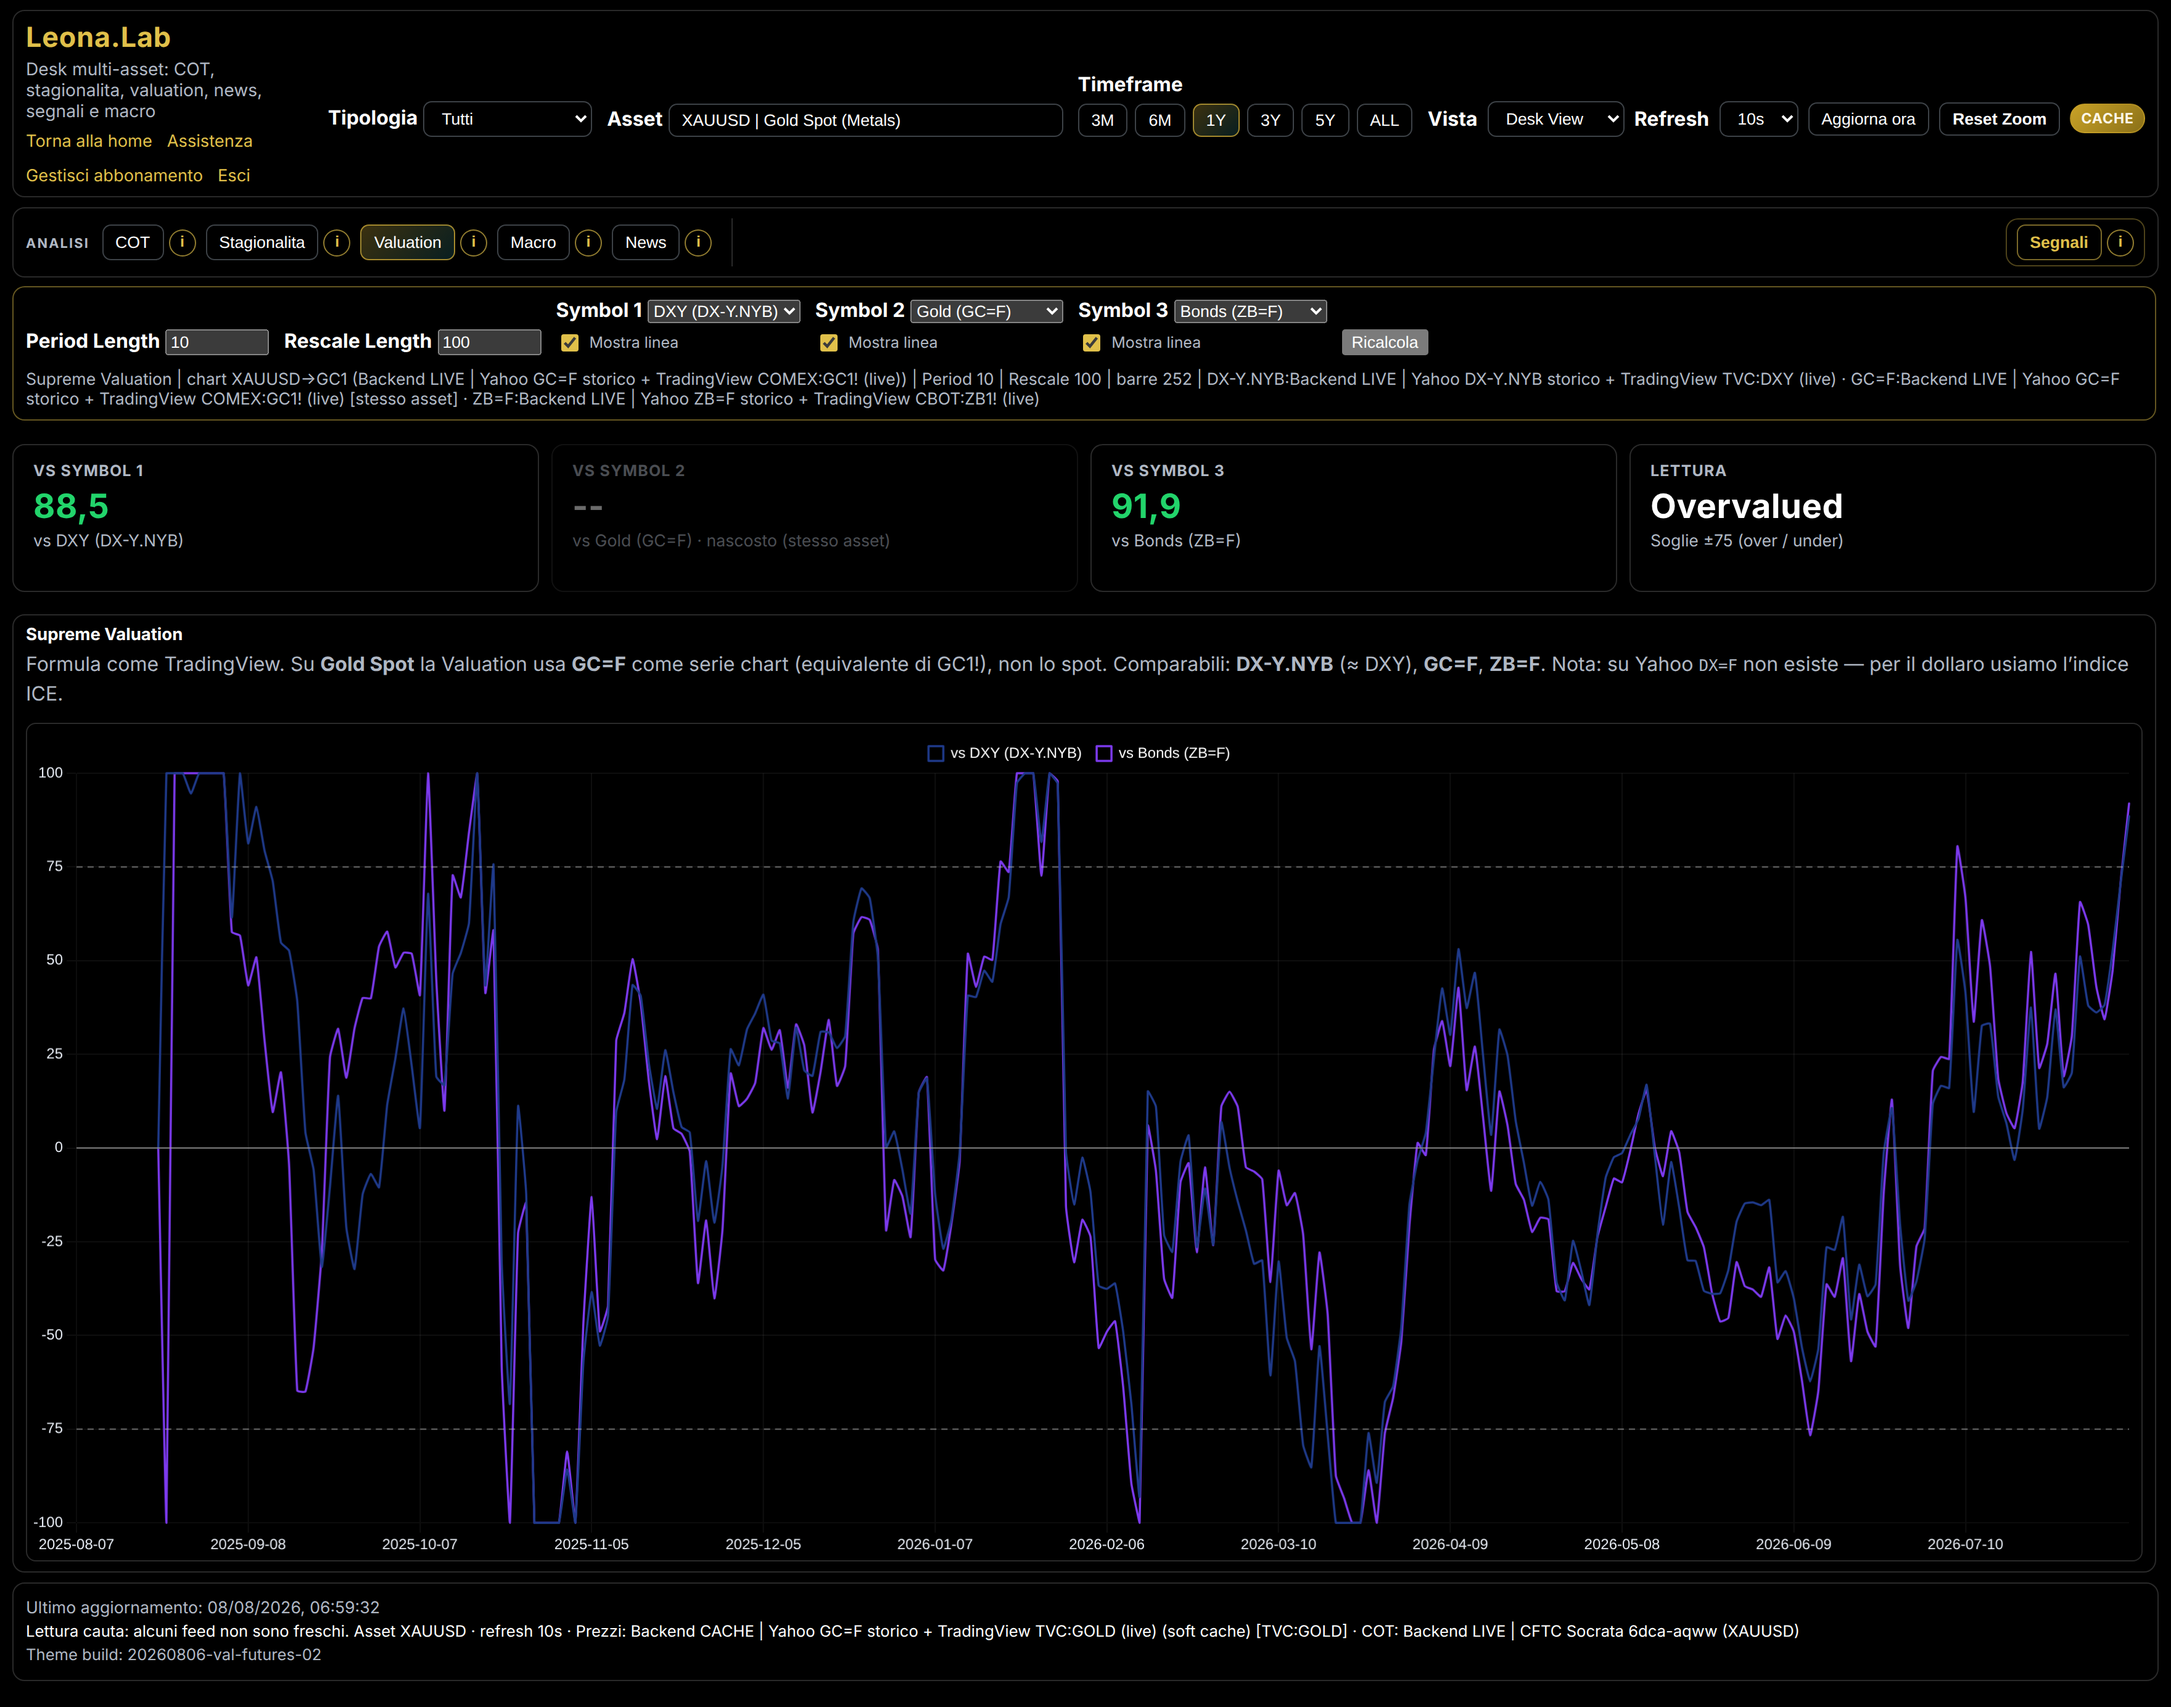
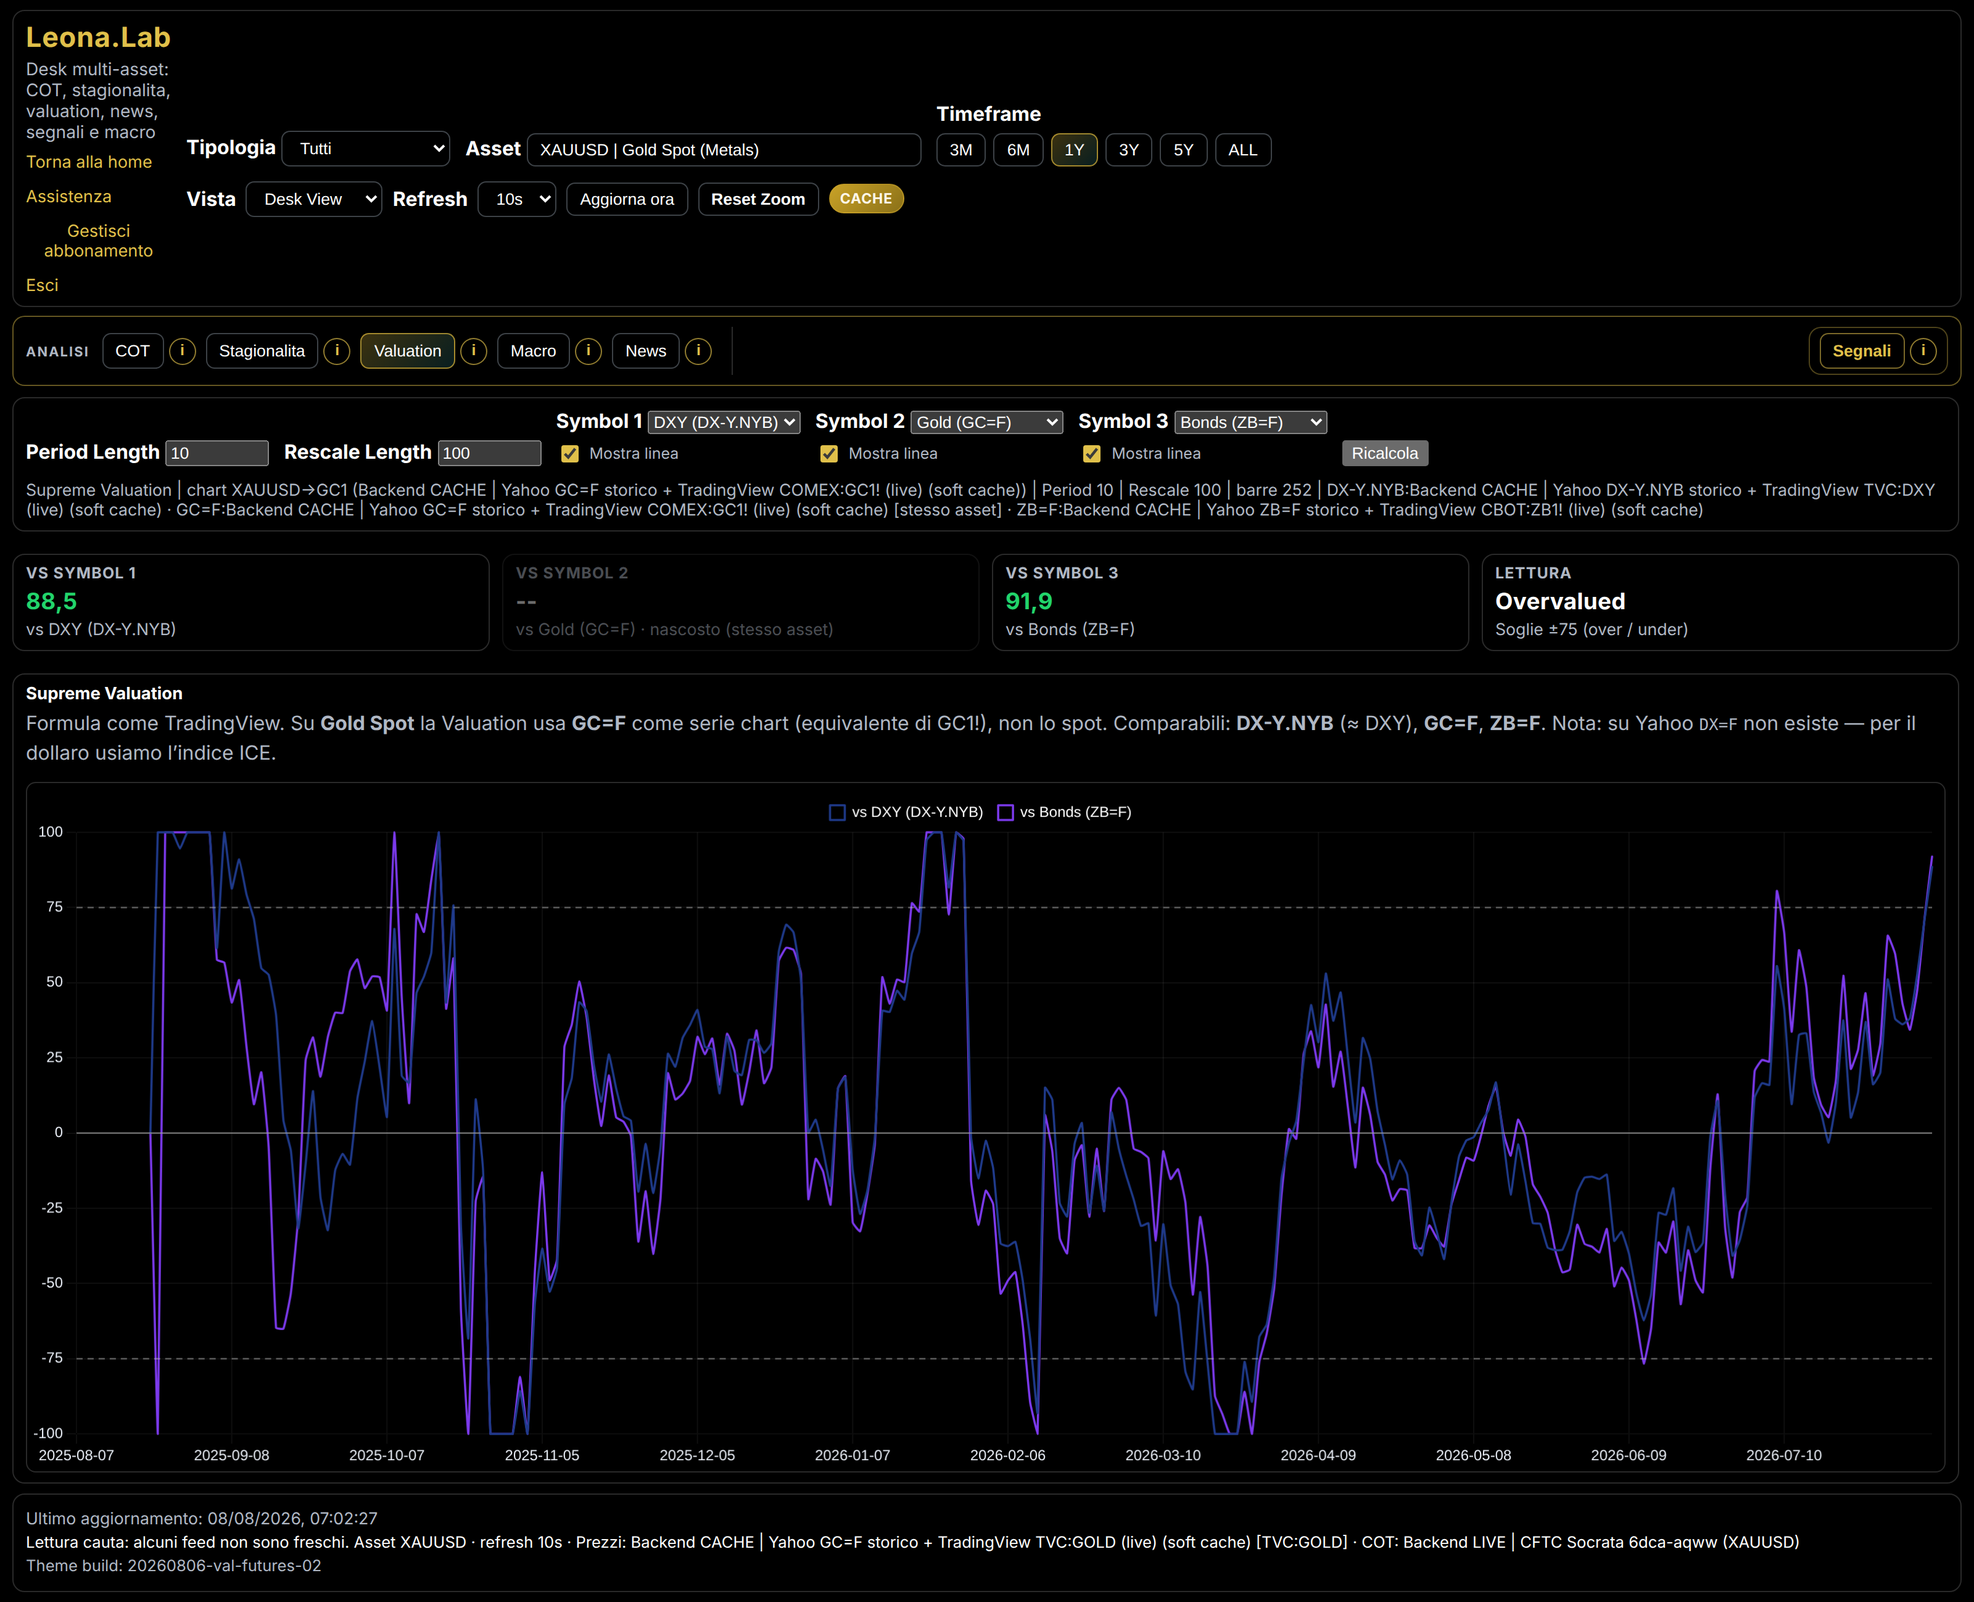
Recapture Valuation full page without empty layout gap
Expand app-shell with auto grid rows (no 1fr void), keep KPI grid
and a tall Supreme Valuation chart, then crop to content bounds.

diff --git a/tools/capture_valuation_full.js b/tools/capture_valuation_full.js
@@ -1,0 +1,226 @@
+/**
+ * Capture the full Valuation desk page without empty flex/grid gaps.
+ */
+const fs = require("fs");
+const path = require("path");
+const { chromium } = require("playwright");
+
+const BASE = process.env.LEONA_BASE || "http://127.0.0.1:8787";
+const OUT = path.join(__dirname, "..", "assets", "screenshots", "pages");
+const ART = "/opt/cursor/artifacts/app-screens";
+
+const VIEW_W = 1600;
+const SCALE = 2;
+const sleep = (ms) => new Promise((r) => setTimeout(r, ms));
+
+async function main() {
+  fs.mkdirSync(OUT, { recursive: true });
+  fs.mkdirSync(ART, { recursive: true });
+
+  const login = await fetch(`${BASE}/api/auth/login`, {
+    method: "POST",
+    headers: { "Content-Type": "application/json", Accept: "application/json" },
+    body: JSON.stringify({ email: "leona", password: "leona123" }),
+  }).then((r) => r.json());
+  if (!login?.token) throw new Error("login failed: " + JSON.stringify(login));
+
+  await fetch(`${BASE}/api/bootstrap?asset=XAUUSD`, {
+    headers: { Authorization: `Bearer ${login.token}` },
+  }).catch(() => null);
+
+  const browser = await chromium.launch({ headless: true });
+  const context = await browser.newContext({
+    viewport: { width: VIEW_W, height: 1000 },
+    deviceScaleFactor: SCALE,
+  });
+  const page = await context.newPage();
+
+  await page.goto(`${BASE}/login`, { waitUntil: "domcontentloaded" });
+  await page.evaluate((token) => localStorage.setItem("leona_lab_auth_token", token), login.token);
+  await page.goto(`${BASE}/app`, { waitUntil: "networkidle", timeout: 90000 });
+  await sleep(2500);
+
+  await page.locator("#tabValuation").click();
+  await sleep(3500);
+
+  // Wait until KPIs / chart have real data
+  await page.waitForFunction(() => {
+    const k1 = document.getElementById("valuationKpi1")?.textContent?.trim();
+    const bias = document.getElementById("valuationBias")?.textContent?.trim();
+    return k1 && k1 !== "--" && bias && bias !== "--";
+  }, { timeout: 45000 }).catch(() => null);
+  await sleep(1500);
+
+  const metrics = await page.evaluate(() => {
+    const html = document.documentElement;
+    const body = document.body;
+    const shell = document.querySelector(".app-shell");
+    const valPage = document.getElementById("valuationPage");
+    const chartWrap = document.querySelector(".valuation-chart-wrap");
+    const chartPanel = document.querySelector(".valuation-chart-panel");
+    const kpi = document.querySelector(".valuation-kpi-grid");
+    const status = document.querySelector(".status-card");
+
+    html.style.setProperty("height", "auto", "important");
+    html.style.setProperty("overflow", "visible", "important");
+    body.style.setProperty("height", "auto", "important");
+    body.style.setProperty("min-height", "0", "important");
+    body.style.setProperty("overflow", "visible", "important");
+    body.style.setProperty("background", "#000", "important");
+
+    if (shell) {
+      // Kill the 1fr row that creates a black void when height grows
+      shell.style.setProperty("height", "auto", "important");
+      shell.style.setProperty("min-height", "0", "important");
+      shell.style.setProperty("max-height", "none", "important");
+      shell.style.setProperty("overflow", "visible", "important");
+      shell.style.setProperty("display", "grid", "important");
+      shell.style.setProperty("grid-template-rows", "auto auto auto auto", "important");
+      shell.style.setProperty("align-content", "start", "important");
+    }
+
+    if (valPage) {
+      valPage.style.setProperty("display", "flex", "important");
+      valPage.style.setProperty("flex-direction", "column", "important");
+      valPage.style.setProperty("height", "auto", "important");
+      valPage.style.setProperty("min-height", "0", "important");
+      valPage.style.setProperty("max-height", "none", "important");
+      valPage.style.setProperty("overflow", "visible", "important");
+      valPage.style.setProperty("flex", "0 0 auto", "important");
+      valPage.style.setProperty("gap", "10px", "important");
+    }
+
+    // Keep natural card/grid layout — only size the chart cleanly
+    if (kpi) {
+      kpi.style.setProperty("display", "grid", "important");
+      kpi.style.setProperty("grid-template-columns", "repeat(4, minmax(0, 1fr))", "important");
+      kpi.style.setProperty("flex", "0 0 auto", "important");
+      kpi.style.setProperty("height", "auto", "important");
+    }
+
+    if (chartPanel) {
+      chartPanel.style.setProperty("flex", "0 0 auto", "important");
+      chartPanel.style.setProperty("height", "auto", "important");
+      chartPanel.style.setProperty("overflow", "visible", "important");
+    }
+
+    if (chartWrap) {
+      chartWrap.style.setProperty("height", "560px", "important");
+      chartWrap.style.setProperty("max-height", "none", "important");
+      chartWrap.style.setProperty("flex", "0 0 auto", "important");
+      chartWrap.style.setProperty("overflow", "hidden", "important");
+    }
+
+    if (status) {
+      status.style.setProperty("flex", "0 0 auto", "important");
+      status.style.setProperty("height", "auto", "important");
+    }
+
+    // Hide inactive pages so they don't contribute height
+    document.querySelectorAll(".page-view:not(.active)").forEach((el) => {
+      el.style.setProperty("display", "none", "important");
+      el.style.setProperty("height", "0", "important");
+      el.style.setProperty("overflow", "hidden", "important");
+    });
+
+    // Resize Chart.js after layout change
+    try {
+      window.state?.valuationChart?.resize?.();
+    } catch (_) {}
+
+    const shellRect = shell?.getBoundingClientRect();
+    return {
+      scrollH: Math.max(html.scrollHeight, body.scrollHeight, shell?.scrollHeight || 0),
+      shellH: shellRect?.height || 0,
+      pageH: valPage?.getBoundingClientRect().height || 0,
+      chartH: chartWrap?.getBoundingClientRect().height || 0,
+      kpiH: kpi?.getBoundingClientRect().height || 0,
+    };
+  });
+
+  console.log("layout metrics", metrics);
+
+  // Grow viewport to content height so fullPage isn't needed / no letterbox
+  const targetH = Math.min(Math.ceil(metrics.scrollH) + 24, 3200);
+  await page.setViewportSize({ width: VIEW_W, height: Math.max(targetH, 900) });
+  await sleep(600);
+  await page.evaluate(() => {
+    try {
+      window.state?.valuationChart?.resize?.();
+    } catch (_) {}
+    window.scrollTo(0, 0);
+  });
+  await sleep(900);
+
+  const finalMetrics = await page.evaluate(() => {
+    const shell = document.querySelector(".app-shell");
+    const valPage = document.getElementById("valuationPage");
+    const kids = [...(valPage?.children || [])].map((el) => ({
+      tag: el.tagName + "." + (el.className || "").toString().split(" ")[0],
+      h: Math.round(el.getBoundingClientRect().height),
+      top: Math.round(el.getBoundingClientRect().top),
+    }));
+    return {
+      docH: document.documentElement.scrollHeight,
+      shellH: Math.round(shell?.getBoundingClientRect().height || 0),
+      pageH: Math.round(valPage?.getBoundingClientRect().height || 0),
+      kids,
+      bias: document.getElementById("valuationBias")?.textContent,
+      k1: document.getElementById("valuationKpi1")?.textContent,
+    };
+  });
+  console.log("final", JSON.stringify(finalMetrics, null, 2));
+
+  // One more viewport fit to exact content
+  const fitH = Math.min(Math.ceil(finalMetrics.docH) + 8, 3200);
+  await page.setViewportSize({ width: VIEW_W, height: Math.max(fitH, 900) });
+  await sleep(500);
+  await page.evaluate(() => {
+    try {
+      window.state?.valuationChart?.resize?.();
+    } catch (_) {}
+    window.scrollTo(0, 0);
+  });
+  await sleep(700);
+
+  const names = ["12-app-valuation-completa", "12-app-valuation"];
+  for (const name of names) {
+    const file = path.join(OUT, `${name}.png`);
+    await page.screenshot({
+      path: file,
+      type: "png",
+      fullPage: true,
+      animations: "disabled",
+    });
+    fs.copyFileSync(file, path.join(ART, `${name}.png`));
+    const st = fs.statSync(file);
+    console.log(`saved ${name}.png ${Math.round(st.size / 1024)}KB`);
+  }
+
+  // Also clip just the shell for a tight "page" export
+  const shellBox = await page.locator(".app-shell").boundingBox();
+  if (shellBox) {
+    const file = path.join(OUT, "12-app-valuation-pagina.png");
+    await page.screenshot({
+      path: file,
+      type: "png",
+      animations: "disabled",
+      clip: {
+        x: Math.max(0, shellBox.x - 8),
+        y: Math.max(0, shellBox.y - 8),
+        width: Math.min(VIEW_W, shellBox.width + 16),
+        height: shellBox.height + 16,
+      },
+    });
+    fs.copyFileSync(file, path.join(ART, "12-app-valuation-pagina.png"));
+    console.log("saved 12-app-valuation-pagina.png");
+  }
+
+  await browser.close();
+  console.log("DONE");
+}
+
+main().catch((e) => {
+  console.error(e);
+  process.exit(1);
+});
